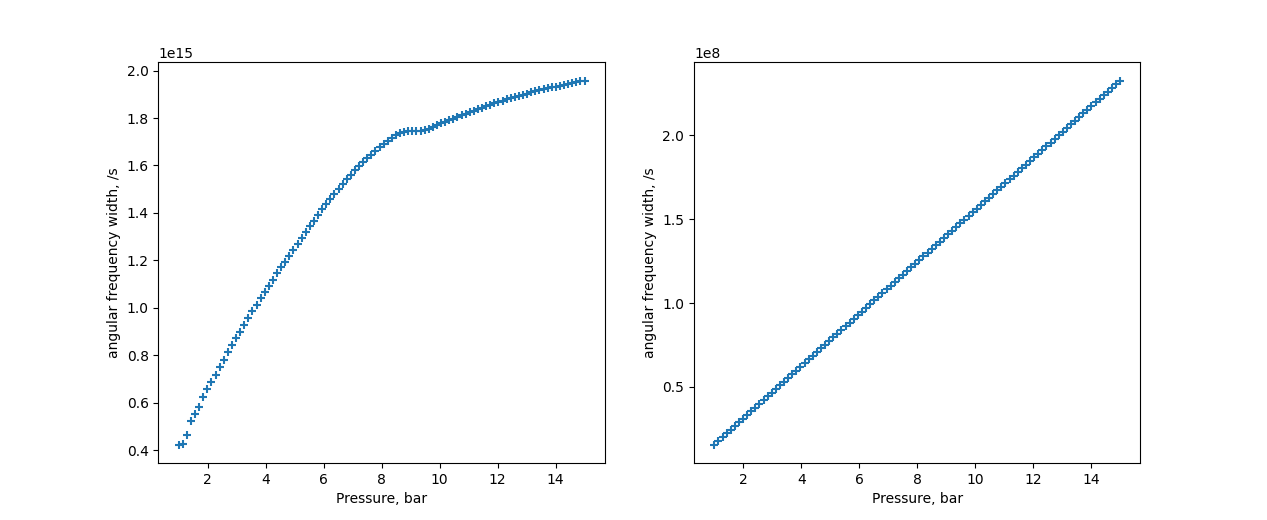
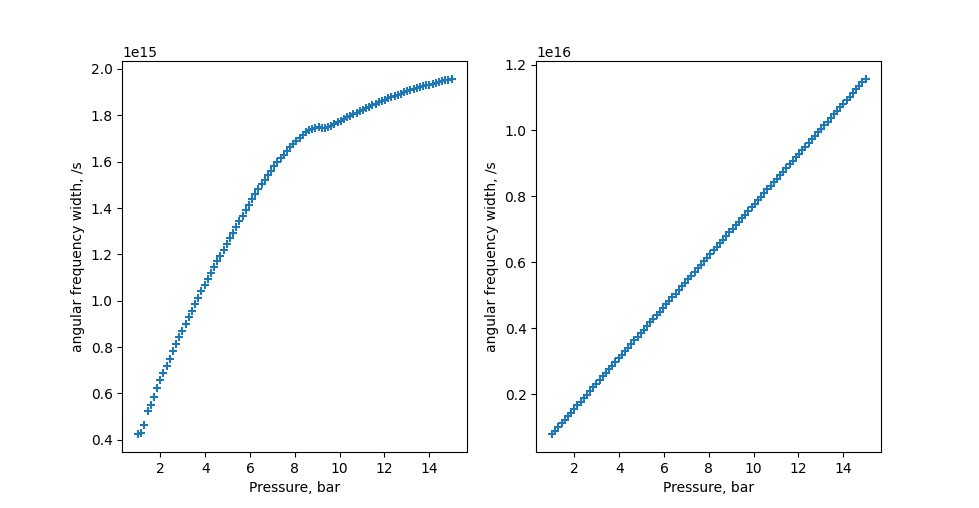
Updated plots

diff --git a/HCF sim/Python/bossfunction_Luna.py b/HCF sim/Python/bossfunction_Luna.py
@@ -6,8 +6,8 @@ julia.Julia(runtime="C:\\Users\\iammo\\AppData\\Local\\Programs\\Julia-1.7.0\\bi
 from julia import Main
 
 import sys
-sys.path.append('D:\\MSci\\GitHub Code\\Optimising-Field-Synthesiser-main\\BO\\')
-sys.path.append('D:\\MSci\\GitHub Code\\Optimising-Field-Synthesiser-main\\synth_sim\\')
+sys.path.append('C:\\Users\\iammo\\Documents\\Optimising-Field-Synthesiser\\BO\\')
+sys.path.append('C:\\Users\\iammo\\Documents\\Optimising-Field-Synthesiser\\BO\\synthesiser_simulation\\')
 from subtargetfunctions import *
 from field_synth_class import *
 from ErrorCorrectionFunction_integrate import *
@@ -17,25 +17,25 @@ from ErrorCorrectionFunction_integrate import *
     # Pulse: input energy, τfwhm, central wavelength
     # Fibre: pressure, fibre core radius, fibre length
 
-def BO(params, initial_values, function, init_points=50, n_iter=50, goal_field=None, t=np.linspace(-20,100,20000), window=None):     
+def BO(params, initial_values_HCF, function, init_points=50, n_iter=50, goal_field=None, t=np.linspace(-20,100,20000), window=None):     
     """
     performs BO with params as specified as strings in params input (params is list of strings) on the HCF.
     init_points: number of initial BO points
     n_iter: number of iterations
     plots input&output spectrum
-    initial_values = [radius, flength, gas, pressure, λ0, τfwhm, energy] # array of initial values
+    initial_values_HCF = [radius, flength, gas, pressure, λ0, τfwhm, energy] # array of initial values for Luna simulation, could change this to input actual Luna simulation
     """ 
     # Start by assigning values to Luna simulation
     Main.using("Luna")
     
-    Main.radius = initial_values[0]
-    Main.flength = initial_values[1]
-    Main.gas_str = initial_values[2]
+    Main.radius = initial_values_HCF[0]
+    Main.flength = initial_values_HCF[1]
+    Main.gas_str = initial_values_HCF[2]
     Main.eval("gas = Symbol(gas_str)")
-    Main.pressure = initial_values[3]
-    Main.λ0 = initial_values[4]
-    Main.τfwhm = initial_values[5]
-    Main.energy = initial_values[6]
+    Main.pressure = initial_values_HCF[3]
+    Main.λ0 = initial_values_HCF[4]
+    Main.τfwhm = initial_values_HCF[5]
+    Main.energy = initial_values_HCF[6]
 
     args_BO = {} #this dictionary will contain only the parameters we want to vary here
     for i in params:

diff --git a/HCF sim/Python/building datasets/parameters_vs_bandwidth/pressure_vs_rms_width.py b/HCF sim/Python/building datasets/parameters_vs_bandwidth/pressure_vs_rms_width.py
@@ -66,7 +66,7 @@ ax1.set_xlabel('Pressure, bar')
 
 theor_widths = []
 for i in range(len(pressures)):
-    theor_widths.append(theoretical_width(flength, pressures[i], λ0, τfwhm, energy))
+    theor_widths.append(theoretical_width(radius, flength, pressures[i], λ0, τfwhm, energy))
 ax2.scatter(pressures,theor_widths, marker="+")
 ax2.set_ylabel("angular frequency width, /s")
 ax2.set_xlabel('Pressure, bar')

diff --git a/HCF sim/Python/building datasets/parameters_vs_bandwidth/wavelength_vs_rms_width.py b/HCF sim/Python/building datasets/parameters_vs_bandwidth/wavelength_vs_rms_width.py
@@ -60,7 +60,7 @@ ax1.set_xlabel('Wavelength, nm')
 
 theor_widths = []
 for i in range(len(λ0s)):
-    theor_widths.append(theoretical_width(flength, pressure, λ0s[i], τfwhm, energy))
+    theor_widths.append(theoretical_width(radius, flength, pressure, λ0s[i], τfwhm, energy))
 ax2.scatter(λ0s*10**9,theor_widths, marker="+")
 ax2.set_ylabel("angular frequency width, /s")
 ax2.set_xlabel('Wavelength, nm')
